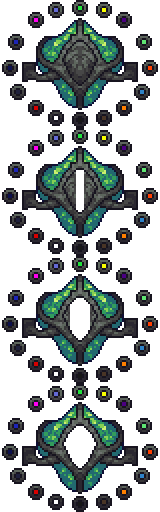
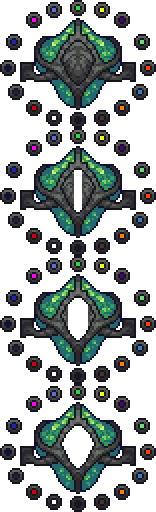
The core fixed

diff --git a/NPCs/Bosses/Core/Core.cs b/NPCs/Bosses/Core/Core.cs
@@ -69,12 +69,12 @@ namespace AAMod.NPCs.Bosses.Core
             #region Points
 
             Vector2 origin = Origin();
-            Vector2 topCenter = origin + new Vector2(145 * 16f, 130  * 16f);
-            Vector2 topLeft = origin + new Vector2(111 * 16f, 134 * 16f);
-            Vector2 topRight = origin + new Vector2(179 * 16f, 134 * 16f);
-            Vector2 BottomLeft = origin + new Vector2(118 * 16f, 156 * 16f);
-            Vector2 BottomRight = origin + new Vector2(172 * 16f, 156 * 16f);
-            Vector2 BottomCenter = origin + new Vector2(145 * 16f, 161 * 16f);
+            Vector2 topCenter = origin + Vector16(140, 125) + Vector16(5, 4);
+            Vector2 topLeft = origin + Vector16(106, 129) + Vector16(5, 4);
+            Vector2 topRight = origin + Vector16(174, 129) + Vector16(5, 4);
+            Vector2 BottomLeft = origin + Vector16(113, 151) + Vector16(5, 4);
+            Vector2 BottomRight = origin + Vector16(167, 151) + Vector16(5, 4);
+            Vector2 BottomCenter = origin + Vector16(140, 156) + Vector16(5, 4);
 
             #endregion
 
@@ -102,13 +102,9 @@ namespace AAMod.NPCs.Bosses.Core
                 {
                     frameShell = 2;
                 }
-                if (internalAI[1] == 80)
+                if (internalAI[1] >= 80)
                 {
                     frameShell = 3;
-                }
-                if (internalAI[1] >= 100)
-                {
-                    frameShell = 4;
                 }
 
                 if (internalAI[1] >= 130)
@@ -218,13 +214,13 @@ namespace AAMod.NPCs.Bosses.Core
 
             if (npc.ai[0] % 15 == 0)
             {
-                if (frameShell < 4)
+                if (frameShell < 3)
                 {
                     frameShell += 1;
                 }
                 else
                 {
-                    frameShell = 4;
+                    frameShell = 3;
                 }
             }
 
@@ -511,10 +507,11 @@ namespace AAMod.NPCs.Bosses.Core
             Texture2D CoreShell = mod.GetTexture("NPCs/Bosses/Core/CoreShell");
             Texture2D Glow = mod.GetTexture("NPCs/Bosses/Core/CoreGlow");
 
-            Rectangle ShellFrame = BaseDrawing.GetFrame(frameShell, 128, 128, 0, 0);
-            Rectangle GlowFrame = BaseDrawing.GetFrame((int)npc.ai[3], 128, 128, 0, 0); ;
+            Rectangle ShellFrame = BaseDrawing.GetFrame(frameShell, 156, 128, 0, 0);
+            Rectangle GlowFrame = BaseDrawing.GetFrame((int)npc.ai[3], 156, 128, 0, 0); 
+            Rectangle CoreBackSprite = BaseDrawing.GetFrame(0, 156, 128, 0, 0); ;
 
-            BaseDrawing.DrawTexture(sb, CoreBack, 0, npc.position, npc.width, npc.height, 1, 0, 0, 1, new Rectangle(0, 0, 88, 90), dColor, true);
+            BaseDrawing.DrawTexture(sb, CoreBack, 0, npc.position, npc.width, npc.height, 1, 0, 0, 1, CoreBackSprite, dColor, true);
             BaseDrawing.DrawTexture(sb, Core, 0, npc.position, npc.width, npc.height, 1, 0, 0, 8, npc.frame, npc.GetAlpha(GlowColor()), true);
             BaseDrawing.DrawTexture(sb, CoreShell, 0, npc.position, npc.width, npc.height, 1, 0, 1, 4, ShellFrame, dColor, true);
             BaseDrawing.DrawTexture(sb, Glow, 0, npc.position, npc.width, npc.height, 1, npc.rotation, 0, 16, GlowFrame, Color.White, true);
